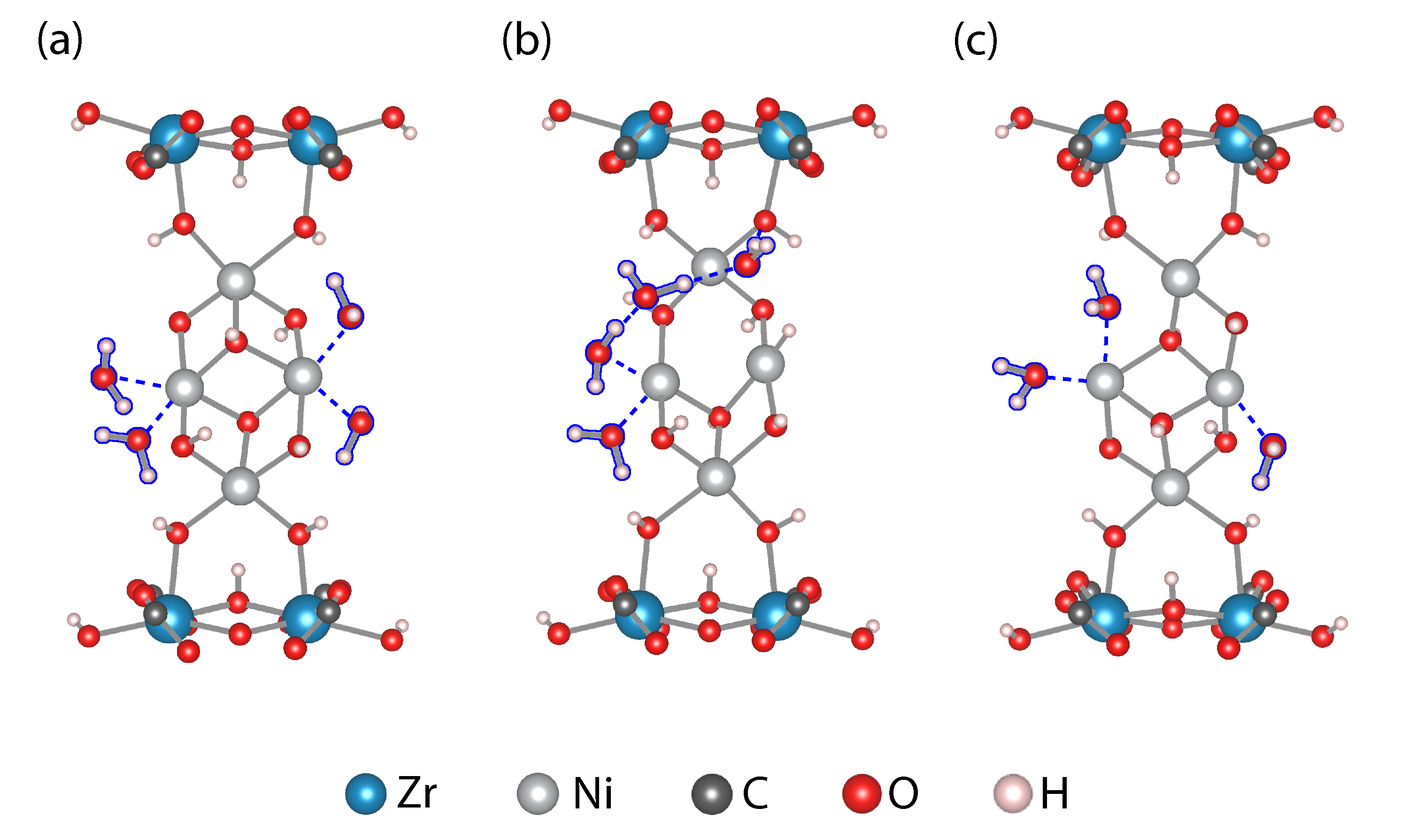
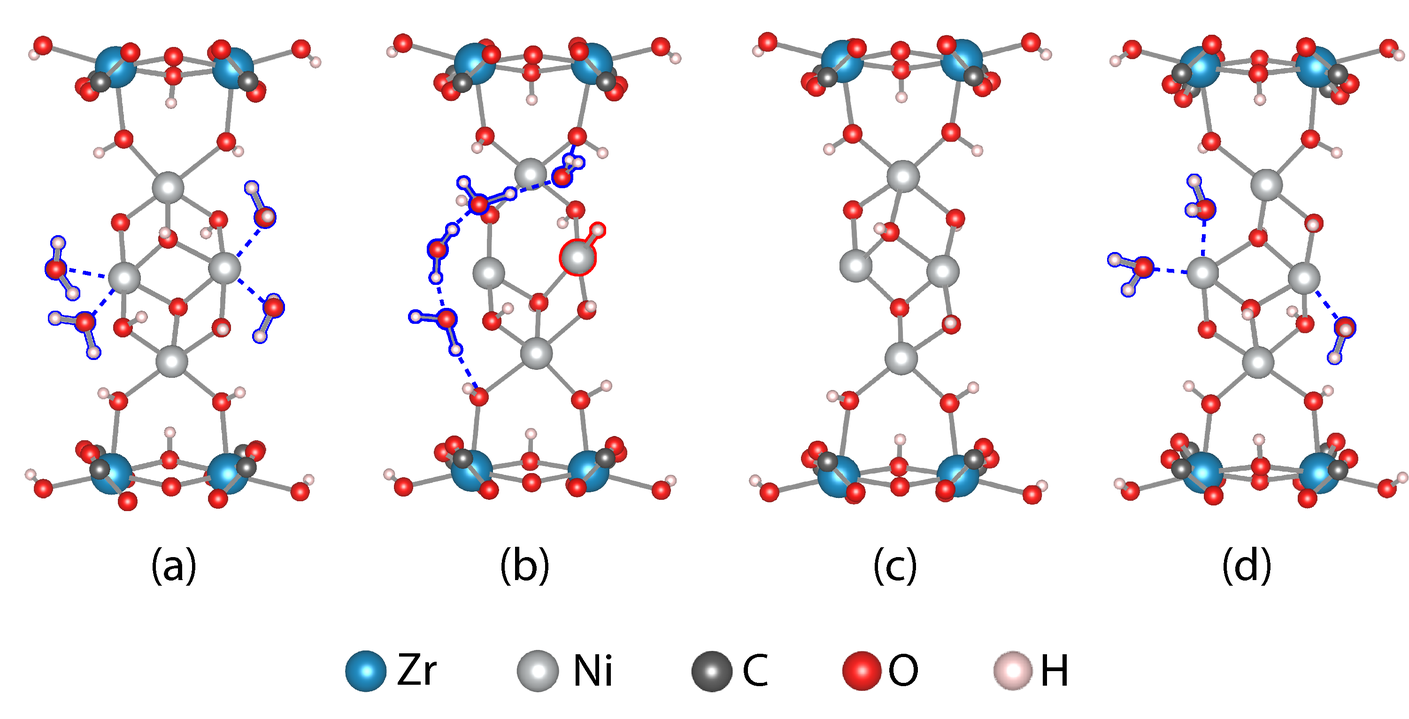
Sending changes to GitHub for reference.

diff --git a/outline.tex b/outline.tex
@@ -155,13 +155,34 @@ Heterogeneous catalysts exhibit dynamic changes in composition and structure as 
 %% Introduction
 %%%%%%%%%%%%%%%%%%%%%%%%%%%%%%%%%%%%%%%%%%%%%%%%%%%%%%%%%%%%%%%%%%%%%
 
-Single-site heterogeneous catalysts (SSHCs) contain well-defined, atomically dispersed active sites that are anchored to solid supports,\cite{Hlatky2000, Kaiser2020, Wasson2019} such as metal-organic frameworks (MOFs),\cite{Zheng2019, AbdelMageed2019, Huang2019} covalent-organic frameworks (COFs),\cite{Zhong2019, Romero-Muniz2020} zeolites,\cite{Mao2016, Kistler2014} and metal\cite{Patel2019, Pei2017, Jiao2019} and metal oxide surfaces.\cite{Bo2019, Riley2018, Tang2019} The atomically dispersed atoms are often 3d transition metals,\cite{Manna2016, Beyzavi2015} with the solid support providing a means to improve metal utilization and maintain well-defined active site structures.\cite{Qiao2011, Cui2017, Yang2013} The metal atoms are anchored to the support either directly (metal-metal bonds) or by organic ligands (e.g., \ce{OH}-ligands), with the attachment dependent on the type of support. In some cases, the ligand environments may be similar to homogeneous catalysts.\cite{Rogge2017} Also similar to homogeneous catalysts, active site structures for SSHCs can be tuned by changing the ligand environment and metal atoms, which makes them tunable. SSHCs are hence appealing for carrying out challenging chemistries.\cite{Thomas2005, Liu2019, Desai2018}
+Single-site heterogeneous catalysts (SSHCs) contain well-defined, atomically dispersed active sites that are anchored to solid supports,\cite{Hlatky2000, Kaiser2020, Wasson2019} such as metal-organic frameworks (MOFs),\cite{Zheng2019, AbdelMageed2019, Huang2019} covalent-organic frameworks (COFs),\cite{Zhong2019, Romero-Muniz2020} zeolites,\cite{Mao2016, Kistler2014} and metal\cite{Patel2019, Pei2017, Jiao2019} and metal oxide surfaces.\cite{Bo2019, Riley2018, Tang2019} The atomically dispersed atoms are often 3d transition metals,\cite{Manna2016, Beyzavi2015} with the solid support providing a means to improve metal utilization and maintain well-defined active site structures.\cite{Qiao2011, Cui2017, Yang2013} The metal atoms are anchored to the support either directly (metal-metal bonds) or by organic ligands (e.g., \ce{OH}-ligands), with the attachment dependent on the type of support. In some cases, the ligand environments may be similar to homogeneous catalysts.\cite{Rogge2017} Also similar to homogeneous catalysts, active site structures for SSHCs can be tuned by changing the ligand environment and metal atoms. SSHCs are hence appealing for carrying out challenging chemistries.\cite{Thomas2005, Liu2019, Desai2018}
 
-%Designing SSHCs requires developing structure-function relationships between catalyst composition and structure with performance. The structures of SSHCs are strongly influenced by operating conditions (e.g., temperature and pressure).\cite{Li2018, DeRita2019} For example, operating conditions modulate the coordinate ligand and structural environments of metal atom centers,\cite{Redfern2018, Kim2015} such as the change in \ce{Pt-O} coordination of single \ce{Pt} atoms supported on \ce{CeO2} (100) due to surface oxygen mobility as a function of temperature.\cite{Daelman2019} Predicting how operating conditions alter any SSHC is non-trivial due to the uniqueness of catalyst, and depends on both the metal and the support. Given catalyst structure drives catalyst function,\cite{DeRita2019} designing SSHCs requires an understanding about the catalyst structure and composition under operating conditions.\cite{Tang2019} This remains an ongoing challenge, with rational catalyst design inhibited by difficulties in determining the precise active site.
+For SSHCs, the structural environments (i.e, the coordinate ligands) of the metal atom centers drive the catalysis.\cite{DeRita2019} However, predicting the ligand environment of any SSHC is non-trivial due to the uniqueness of active site,\cite{Daelman2019, Tang2019} and is further complicated by structural changes induced by operating conditions.\cite{Li2018, Kim2015} Understanding the SSHC ligand environment is imperative to understand the catalytic mechanisms that occur. Difficulties in determining the precise active site for SSHCs remain an ongoing challenge, with a lack of structural information about the active site preventing detailed structures-function relationships between catalyst structure and performance.
 
-Developing structure-function relationships between catalyst structure and performance is vital for rational catalyst design. For SSHCs, the structural environments (i.e, the coordinate ligands) of the metal atom centers influence the catalysis.\cite{DeRita2019} However, predicting the ligand environment of any SSHC is non-trivial due to the uniqueness of active site,\cite{Daelman2019} and is further complicated by structural changes induced by operating conditions.\cite{Li2018} Understanding the SSHC ligand environment at relevant operating condition is imperative to rationalize the catalytic mechanisms. This remains an ongoing challenge, with rational catalyst design inhibited by difficulties in determining the precise active site.
+%In this work, we seek to learn the composition and structure of a single-site \ce{Ni} catalyst under conditions relevant to catalytic hydrogenation, because of their importance in a variety of reactions, including the Shell higher oligomers process (SHOP)\cite{1988Reuben} and the steam reforming of methane using the Catalytic Rich Gas (CRG) catalyst.\cite{Ross1973} Specifically, we investigate a \ce{Ni} cluster supported on the MOF NU-1000, herein denoted Ni-NU-1000. MOFs are porous crystals comprised of metal oxide/hydroxide nodes connected by organic ``linker" molecules.\cite{Li1999} NU-1000 (Figure~\ref{fig:Ni-MOF-model}a) is comprised of \ce{Zr6(\mu_{3}-O)4(\mu_{3}-OH)4(H2O)4(OH)4} nodes connected with tetratopic 1,3,6,8-tetrakis (p-benzoate) pyrene (TBAPy) linkers. The \ce{Ni} ions are known to anchor to the NU-1000 nodes via the accessible \ce{-OH}/\ce{-OH2} ligands on the \ce{Zr6} nodes, with Atomic Layer Deposition in MOFs (AIM) depositing the \ce{Ni} atoms.\cite{Mondloch2013} Initially, the structure was thought to consist of a single divalent \ce{Ni} ion coordinated zero to three \ce{H2O} ligands, depending on the operating conditions.\cite{Li2016sintering} However, difference envelope density (DED) analysis of powder diffraction data and electron microscopy later revealed that the catalyst is actually comprised of four \ce{Ni} ions per node.\cite{PlateroPrats2017} Computational studies by \citeauthor{Ye2017} then suggested that the catalyst is a four \ce{Ni} ion cluster containing hydroxo (\ce{OH}) ligands attached to adjacent nodes within NU-1000.\cite{Ye2017} For Ni-NU-1000, Ni hydrides (\ce{Ni-H}) have always been considered a key intermediate for both ethylene hydrogenation\cite{Shabbir2020, Li2016sintering} and ethylene dimerization.\cite{Ye2017} For example, in the work by \citeauthor{Ye2017}, the catalyst was assumed to lose all coordinated \ce{H2O} ligands with an \ce{OH}-ligand being replaced by an ethyl (Et) ligand when activated with \ce{Et2AlCl} (as seen in the \hl{Supporting Information}).\cite{Ye2017} The reaction mechanism then proceeds to contain a \ce{Ni-H}. However, the precise ligand environment remains to be resolved. Addressing questions related to the active site structure are important in improving these Ni-NU-1000 catalysts, and the results will be useful for understanding ligand environments in other 3d transition metal ion catalysts as well. 
 
-In this work, we seek to learn the composition and structure of a single-site \ce{Ni} catalyst under conditions relevant to catalytic hydrogenation, because of their importance in a variety of reactions, including the Shell higher oligomers process (SHOP)\cite{1988Reuben} and the steam reforming of methane using the Catalytic Rich Gas (CRG) catalyst.\cite{Ross1973} Specifically, we investigate a \ce{Ni} cluster supported on the MOF NU-1000, herein denoted Ni-NU-1000. MOFs are porous crystals comprised of metal oxide/hydroxide nodes connected by organic ``linker" molecules.\cite{Li1999} NU-1000 (Figure~\ref{fig:Ni-MOF-model}a) is comprised of \ce{Zr6(\mu_{3}-O)4(\mu_{3}-OH)4(H2O)4(OH)4} nodes connected with tetratopic 1,3,6,8-tetrakis (p-benzoate) pyrene (TBAPy) linkers. The Ni ions are known to anchor to the NU-1000 nodes via the accessible \ce{-OH}/\ce{-OH2} ligands on the \ce{Zr6} nodes, with Atomic Layer Deposition in MOFs (AIM) depositing the \ce{Ni} atoms.\cite{Mondloch2013} Initially, the structure was thought to consist of a single divalent \ce{Ni} ion coordinated zero to three \ce{H2O} ligands, depending on the operating conditions.\cite{Li2016sintering} However, difference envelope density (DED) analysis of powder diffraction data and electron microscopy later revealed that the catalyst is actually comprised of four \ce{Ni} ions per node.\cite{PlateroPrats2017} Computational studies by \citeauthor{Ye2017} then suggested that the catalyst is a four \ce{Ni} ion cluster containing hydroxo (\ce{OH}) ligands attached to adjacent nodes within NU-1000.\cite{Ye2017} For Ni-NU-1000, Ni hydrides (\ce{Ni-H}) have always been considered a key intermediate for both ethylene hydrogenation\cite{Shabbir2020, Li2016sintering} and ethylene dimerization.\cite{Ye2017} For example, in the work by \citeauthor{Ye2017}, the catalyst was assumed to lose all coordinated \ce{H2O} ligands with an \ce{OH}-ligand being replaced by an ethyl (Et) ligand when activated with \ce{Et2AlCl} (as seen in the \hl{Supporting Information}).\cite{Ye2017} The reaction mechanism then proceeds to contain a \ce{Ni-H}. However, the precise ligand environment remains to be resolved. Addressing questions related to the active site structure are important in improving these Ni-NU-1000 catalysts, and the results will be useful for understanding ligand environments in other 3d transition metal ion catalysts as well. 
+In this work, we seek to learn the composition and structure of a \ce{Ni} SSHC under conditions relevant to catalytic hydrogenation. \ce{Ni}-based catalysts are important in a variety of reactions, including ethene oligomerization using the Shell higher oligomers process (SHOP)\cite{1988Reuben} and the steam reforming of methane using the Catalytic Rich Gas (CRG) catalyst.\cite{Ross1973} Specifically, we investigate a \ce{Ni} cluster supported on the MOF NU-1000, herein denoted Ni-NU-1000. MOFs are porous crystals that consist of metal cation nodes connected by organic ``linker" molecules.\cite{Li1999} NU-1000 (Figure~\ref{fig:Ni-MOF-model}a) is comprised of \ce{Zr6(\mu_{3}-O)4(\mu_{3}-OH)4(H2O)4(OH)4} nodes interconnected with tetratopic 1,3,6,8-tetrakis (p-benzoate) pyrene (TBAPy) linkers. The \ce{Ni} ions are known to anchor to the NU-1000 nodes via the accessible \ce{-OH}/\ce{-OH2} ligands on the \ce{Zr6} nodes, with Atomic Layer Deposition in MOFs (AIM) depositing the \ce{Ni} atoms.\cite{Mondloch2013} Initially, the structure was thought to consist of a single divalent \ce{Ni} ion coordinated with zero to three \ce{H2O} ligands, depending on the operating conditions.\cite{Li2016sintering} However, difference envelope density (DED) analysis of powder diffraction data and electron microscopy later revealed that the catalyst is four \ce{Ni} ion cluster (\ce{Ni4OxHy})and contains a combination of hydroxo (\ce{OH}) and water \ce{H2O} ligands.\cite{PlateroPrats2017} Additional computational studies by \citeauthor{Ye2017} then suggested the four \ce{Ni} ion cluster is attached to adjacent nodes within Ni-NU-1000.\cite{Ye2017} Key questions remain about the precise ligand environment of the \ce{Ni} ions. Prior literature suggests that the 
+
+% combine the two sentences below.. soft the term general consensus here.. Prior literature suggests that the 
+The general consensus is that in the synthesized Ni-NU-1000 the \ce{Ni} ions are interconnected by \ce{OH}-ligands and also contains coordinated \ce{H2O} ligands; however, other ligands are possible including \ce{H2O}, \ce{O}, and \ce{H} ligands. Additionally, the arrangement of these ligands within Ni-NU-1000 isn't fully established either. 
+
+However, the precise ligand environment isn't know.. 
+
+% elaborate more intentionally about the Ni-H structure...metal hydride active site is present. 
+Further complexities exist when considering differences between the synthesized and activated samples, which the formation of the key \ce{Ni} hydride (\ce{Ni-H}) intermediate for catalytic ethylene hydrogenation\cite{Shabbir2020, Li2016sintering} and dimerization.\cite{Ye2017} 
+
+% There is evidence that suggests the hydrogenation and dimerization.. be concise.. enough information. 
+
+Several modeling studies have used active site model, seen good agreement with the metal hydride active site model compared to other models. 
+
+% Think about it as someone not being in ICDC who hasn't read the papers, but is an expert in SSHCs. 
+
+% Hydride is suggests as being the active site for these reactions. Can also reference Ben's paper on the formation of the hydride being relevant in these reactions. 
+
+Addressing questions related to the active site structure are important in improving these Ni-NU-1000 catalysts, and the results will be useful for understanding ligand environments in other 3d transition metal ion catalysts as well.   
+
+% For Ni-NU-1000, \ce{Ni} hydrides (\ce{Ni-H}) have always been considered a key intermediate for both ethylene hydrogenation\cite{Shabbir2020, Li2016sintering} and ethylene dimerization.\cite{Ye2017} For example, in the work by \citeauthor{Ye2017}, the catalyst was assumed to lose all coordinated \ce{H2O} ligands with an \ce{OH}-ligand being replaced by an ethyl (Et) ligand when activated with \ce{Et2AlCl} (as seen in the \hl{Supporting Information}).\cite{Ye2017} The reaction mechanism then proceeds to contain a \ce{Ni-H}. 
+
 
 Along these lines, in this work, we explore the ligand environment of a four ion \ce{Ni} cluster under conditions relevant to catalytic hydrogenation (specifically conditions with exposure to \ce{H2} gas during the activation step). Prior experimental work on Ni-NU-1000 enables comparisons between computational and experimental characterization. We combine differential pair distribution function (d-PDF) analysis, density functional theory (DFT), and \textit{ab initio} thermodynamic modeling to learn the ligand environment of Ni-NU-1000. We find that highly coordinated \ce{Ni} ions (\ce{Ni-O} coordination $\sim$5) that contain an asymmetric arrangement of \ce{OH}, \ce{H2O}, and \ce{O} ligands show the best agreement with experimental results. Structures that can achieve such high \ce{Ni} coordination exhibit large chemical potentials of \ce{H2O} even under reducing conditions, suggesting that NU-1000 is able to store \ce{H2O} under these conditions. Notably, we only identify one structure featuring a \ce{Ni} hydride in thermodynamic modeling, despite the the consensus that metal (M) hydrides are part of the active site in M-NU-1000 catalysts. Our results provide insights into the local coordination of the \ce{Ni} metal cluster that will be useful in hypothesizing and modeling catalytic mechanisms on such catalysts. 
 
@@ -169,7 +190,7 @@ Along these lines, in this work, we explore the ligand environment of a four ion
     \centering
     \includegraphics[width=3.0in]{zi-images/00-General-Graphics/2022-figure-MOF-schematic.png}
     \caption{
-    The structure of NU-1000 shown along the (a) c-axis and the (b) a-axis with the location of the \ce{Ni} metal cluster highlighted by the gray oval. 
+    The structure of NU-1000 shown along the (a) c-axis and the (b) a-axis with the location of the \ce{Ni} metal cluster highlighted by the gray oval. The metal cluster is located within the 8~{\AA} pore of Ni-NU-1000. The diameters of the hexagonal (31~{\AA}) and triangular (10~{\AA}) channels are also indicated.
     }
     \label{fig:Ni-MOF-model}
 \end{figure}
@@ -187,13 +208,13 @@ Differential pair distribution function (d-PDF) analysis is performed to reveal 
 
 \subsubsection{Catalyst Structure Models}
 
-NU-1000 (P6/mmm space group) comprises small 8~\AA\ pores and large 31~\AA\ pores (Figure \ref{fig:Ni-MOF-model}). DFT-optimized unit cell parameters are $a=b=40.611$ {\AA}, $c=15.990$ {\AA}, $\alpha=\beta=\ang{90}$, and $\gamma=\ang{60}$. Simulated structures contain one \ce{Ni} cluster per unit cell. Based on the current knowledge about Ni-NU-1000 catalysts,\cite{PlateroPrats2017} these clusters comprise four \ce{Ni} ions and span the small pores of NU-1000, connecting two adjacent nodes (Figure~\ref{fig:Ni-MOF-model}b). (Structures comprising fewer than four \ce{Ni} ions were also evaluated, but gave poor agreement with the experimental d-PDF; see \hl{Supporting Information Section XXX}.) Clusters bind to the nodes by replacing two protons (one on each node).\cite{Ye2017} To provide molecular-level insight into the types of ligand environments that could lead to the experimentally observed d-PDFs, we consider \hl{854} different structures comprising a variety of ligand environments, including hydroxyl (\ce{OH}), water (\ce{H2O}), hydride (\ce{H}), and oxygen (\ce{O}), giving stoichiometries of \ce{Ni_4O_xH_y} for all clusters considered. Three example structures are shown in Figure~\ref{fig:Ni-MOF-structures}. \textbf{\color{red}The full library of structures considered in this work can be accessed on our GitHub page.} 
+NU-1000 (P6/mmm space group) features small 8~{\AA} pores with uniform hexagonal (31~{\AA}) and triangular (10~{\AA}) channels (Figure \ref{fig:Ni-MOF-model}). DFT-optimized unit cell parameters are $a=b=40.611$ {\AA}, $c=15.990$ {\AA}, $\alpha=\beta=\ang{90}$, and $\gamma=\ang{60}$. Simulated structures contain one \ce{Ni} cluster per unit cell. Based on the current knowledge about Ni-NU-1000 catalysts,\cite{PlateroPrats2017} these clusters comprise four \ce{Ni} ions and span the small pores of NU-1000, connecting two adjacent nodes (Figure~\ref{fig:Ni-MOF-model}b). (Structures comprising fewer than four \ce{Ni} ions were also evaluated, but gave poor agreement with the experimental d-PDF; see \hl{Supporting Information Section XXX}.) Clusters bind to the nodes by replacing two protons (one on each node).\cite{Ye2017} To provide molecular-level insight into the types of ligand environments that could lead to the experimentally observed d-PDFs, we consider \hl{854} different structures comprising a variety of ligand environments, including hydroxyl (\ce{OH}), water (\ce{H2O}), hydride (\ce{H}), and oxygen (\ce{O}), giving stoichiometries of \ce{Ni_4O_xH_y} for all clusters considered. Four example structures are shown in Figure~\ref{fig:Ni-MOF-structures}. \textbf{\color{red}The full library of structures considered in this work can be accessed on our GitHub page.} 
 
 \begin{figure}
     \centering
     \includegraphics[width=5.0in]{zi-images/00-General-Graphics/2022-figure-clusters-3xstructures.png}
     \caption{
-    Some of the \ce{Ni_4O_xH_y} clusters evaluated in this work. (a) \ce{Ni4(OH)6.4H2O} (green), (b) \ce{Ni4(OH)5(H).4H2O} (blue), (c) \ce{Ni4(OH)4(O).3H2O} (maroon). Colors in parentheses are the same as for Figures~\ref{fig:phase_diagram_Ni} and \ref{fig:Ni-structure-diagram}. The NU-1000 structure is excluded from the pictures for clarity, except for the \ce{Zr} ions where the clusters are attached. The atom color key is indicated in the figure. \ce{H2O} molecules and ligands are outlined in blue.  
+    Some of the \ce{Ni_4O_xH_y} clusters evaluated in this work. (a) \ce{Ni4(OH)6.4H2O} (green), (b) \ce{Ni4(OH)5(H).4H2O} (blue), (c) \ce{Ni4(OH)4(O)} (yellow), and (d) \ce{Ni4(OH)4(O).3H2O} (maroon). Colors in parentheses are the same as for Figures~\ref{fig:phase_diagram_Ni} and \ref{fig:Ni-structure-diagram}. The NU-1000 structure is excluded from the pictures for clarity, except for the \ce{Zr} ions where the clusters are attached. The atom color key is indicated in the figure. \ce{H2O} molecules and ligands are outlined in blue, and \ce{Ni-H} ligands are outlined in red.
     }
     \label{fig:Ni-MOF-structures}
 \end{figure}
@@ -212,7 +233,7 @@ NU-1000 (P6/mmm space group) comprises small 8~\AA\ pores and large 31~\AA\ pore
 where $F^{(2)}$ is the the second Legendre transform of the Helmholtz free energy (i.e., of $N_{\ce{H}}$ and $N_{\ce{O}}$ to $\mu_{\ce{H}}$ and $\mu_{\ce{O}}$),\cite{Alberty1997} $V$ is volume, $T$ is temperature, $\mu$ is chemical potential, and $N$ is number, i.e., of \ce{O} and \ce{H} atoms within the cluster. $\mu_{\ce{H}} = \frac{1}{2} \mu_{\ce{H}_2}$, and $\mu_{\text{O}} = \mu_{\ce{H2O}} - 2\mu_{\ce{H}}$. $F = E^\text{elec} + E^\text{ZP} + F^\text{vib}$, where $E^\text{elec}$ is the electronic energy calculated with DFT, $E^\text{ZP}$ is the zero point vibrational energy, and $F^\text{vib}$ is the temperature dependent vibrational free energy. The $\Delta$'s in Eq.~\ref{eq:free-energy-trans} indicate quantities taken relative to a reference structure; the reference structure used in this work is shown in Figure~\ref{fig:Ni-MOF-structures}a. This structure comprises \ce{OH} and \ce{H2O} ligands (outlined in blue in Figure~\ref{fig:Ni-MOF-structures}) and is highly symmetric.
 
 \subsubsection{Density Functional Theory Calculations}
-Electronic energies are calculated using the CP2K software package\cite{Hutter2014} using the PBE exchange and correlation functional\cite{Perdew1996}, damped D3 dispersion corrections,\cite{Grimme2010} the DZVP-MOLOPT basis set,\cite{VandeVondele2007} and Goedecker pseudopotentials.\cite{Goedecker1996} Plane waves are simulated up to 360 Ry. As a single divalent \ce{Ni} ion can adopt singlet or triplet spin states, we evaluate singlet, triplet, quintet, septet, and nonet states for the \ce{Ni4} clusters, following prior work.\cite{Shabbir2020, Ye2017, Bernales2016} The Unrestricted Kohn-Sham (UKS) method is employed given the open shell nature of the system. Spin states exhibiting spin contamination are not considered in \textit{ab initio} thermodynamic analysis. Details about how spin contamination is determined and the criteria used to keep or discard structures is provided in Supporting Information Section \hl{XXX}. Electronic energies are obtained from geometry relaxations where all atoms in the periodic unit cell are allowed to relax. $E^\text{ZP}$ and $F^\text{vib}$ are calculated from the calculated vibrational modes. Details about how the vibrational modes are calculated are provided in \hl{Supporting Information}. Vibrational modes are only calculated for structures within 100 kJ/mol of the lowest electronic-energy cluster at each unique composition to decrease computational expense. Details about how $E_{\text{H}_2}$ and $E_{\text{H}_2\text{O}}$ are calculated and sample CP2K input files for all types of DFT calculations carried out in this work are provided in Supporting Information. 
+Electronic energies are calculated using the CP2K software package\cite{Hutter2014} using the PBE exchange and correlation functional\cite{Perdew1996}, damped D3 dispersion corrections,\cite{Grimme2010} the DZVP-MOLOPT basis set,\cite{VandeVondele2007} and Goedecker pseudopotentials.\cite{Goedecker1996} Plane waves are simulated up to 360 Ry. As a single divalent \ce{Ni} ion can adopt singlet or triplet spin states, we evaluate singlet, triplet, quintet, septet, and nonet states for the \ce{Ni4} clusters, following prior work.\cite{Shabbir2020, Ye2017, Bernales2016} The Unrestricted Kohn-Sham (UKS) method is employed given the open shell nature of the system. Spin states exhibiting spin contamination are not considered in \textit{ab initio} thermodynamic analysis. Details about how spin contamination is determined and the criteria used to keep or discard structures is provided in Supporting Information Section \hl{XXX}. Electronic energies are obtained from geometry relaxations where all atoms in the periodic unit cell are allowed to relax. $E^\text{ZP}$ and $F^\text{vib}$ are calculated from the calculated vibrational modes. Details about how the vibrational modes, $E^\text{ZP}$, and $F^\text{vib}$ are calculated are provided in \hl{Supporting Information}. Vibrational modes are only calculated for structures within 100 kJ/mol of the lowest electronic-energy cluster at each unique composition to decrease computational expense. Details about how $E_{\text{H}_2}$ and $E_{\text{H}_2\text{O}}$ are calculated and sample CP2K input files for all types of DFT calculations carried out in this work are provided in Supporting Information. 
 
 \section{Results and Discussion}
 %%%%%%%%%%%%%%%%%%%%%%%%%%%%%%%%%%%%%%%%%%%%%%%%%%%%%%%%%%%%%%%%%%%%%
@@ -253,13 +274,13 @@ Figure~\ref{fig:phase_diagram_Ni} plots a phase diagram constructed using \texti
     \label{fig:Ni-structure-diagram}
 \end{figure}
 
-To compare with experiment, d-PDFs for all structures on the phase diagram with \ce{Ni-O} coordination numbers $\ge$ 4 are shown in Figure~\ref{fig:dPDFs-graphic}b. We seek those structures that give good agreement with the \ce{Ni-O} and \ce{Ni{\Compactcdots}Ni} peaks seen in the experimental d-PDF, since these peaks represent key structural features of the cluster. \ce{Ni-O} peaks in general agree well with experiment, except for \ce{Ni4(OH)5(H).4H2O} (blue), which exhibits asymmetric split peaks instead of a single peak. From Figure~\ref{fig:Ni-structure-diagram}, this asymmetry is likely caused by an asymmetric ligand environment (Figure~\ref{fig:Ni-MOF-structures}b). Specifically, in addition to \ce{OH} and \ce{H2O} ligands, the \ce{Ni4(OH)5(H).4H2O} (blue) structure comprises a Ni hydride (\ce{H} ligand) as well as a bridge of \ce{H2O} molecules that connect one \ce{Ni} ion with a \ce{OH} ligand on the opposite side of the cluster. That asymmetry in the \ce{Ni-O} peak is not observed experimentally indicates that the ligand environments on the different \ce{Ni} ions in the synthesized structure are more similar than those in structure \ce{Ni4(OH)5(H).4H2O} (blue).  
+To compare with experiment, d-PDFs for all structures on the phase diagram with \ce{Ni-O} coordination numbers $\ge$ 4 are shown in Figure~\ref{fig:dPDFs-graphic}b. We seek structures that give good agreement with the \ce{Ni-O} and \ce{Ni{\Compactcdots}Ni} peaks seen in the experimental d-PDF, as we find these peaks may be related to structural phenomena that, at present, aren't fully incorporated into any molecular models. \ce{Ni-O} peaks in general agree well with experiment, except for \ce{Ni4(OH)5(H).4H2O} (blue), which exhibits asymmetric split peaks instead of a single peak. From Figure~\ref{fig:Ni-structure-diagram}, this asymmetry is likely caused by an asymmetric ligand environment (Figure~\ref{fig:Ni-MOF-structures}b). Specifically, in addition to \ce{OH} and \ce{H2O} ligands, the \ce{Ni4(OH)5(H).4H2O} (blue) structure comprises a Ni hydride (\ce{H} ligand) as well as a bridge of \ce{H2O} molecules that connect one \ce{Ni} ion with a \ce{OH} ligand on the opposite side of the cluster. That asymmetry in the \ce{Ni-O} peak is not observed experimentally indicates that the ligand environments on the different \ce{Ni} ions in the synthesized structure are more similar than those in structure \ce{Ni4(OH)5(H).4H2O} (blue).  
 
-There is less agreement between simulations and experiments for the \ce{Ni{\Compactcdots}Ni} peaks in the d-PDFs in Figure~\ref{fig:dPDFs-graphic}. In the experimental d-PDF, these peaks are split, suggesting that there is at least some asymmetry in the cluster; however, most of the simulated structures exhibit a single \ce{Ni{\Compactcdots}Ni} peak. The two exceptions are \ce{Ni4(OH)5(H).4H2O} (blue) and \ce{Ni4(OH)4(O)} (yellow). While \ce{Ni4(OH)5(H).4H2O} (blue) exhibits a highly asymmetric ligand environment including a \ce{H2O} molecule chain and a \ce{Ni} hydride, \ce{Ni4(OH)4(O)} (yellow) comprises mainly \ce{OH} ligands and one \ce{O} ligand (but no \ce{H2O} or \ce{H} ligands). Taken together, these comparisons suggest that the synthesized catalyst exhibits a mix of \ce{OH}, \ce{H2O}, and \ce{O} ligands, similar to \ce{Ni4(OH)4(O)} (yellow).
+There is less agreement between simulations and experiments for the \ce{Ni{\Compactcdots}Ni} peaks in the d-PDFs in Figure~\ref{fig:dPDFs-graphic}. In the experimental d-PDF, these peaks are split, suggesting that there is at least some asymmetry in the cluster; however, most of the simulated structures exhibit a single \ce{Ni{\Compactcdots}Ni} peak. The two exceptions are \ce{Ni4(OH)5(H).4H2O} (blue) and \ce{Ni4(OH)4(O)} (yellow), which are shown in Figure~\ref{fig:Ni-MOF-structures}b and c respectively. While \ce{Ni4(OH)5(H).4H2O} (blue) exhibits a highly asymmetric ligand environment including a \ce{H2O} molecule chain and a \ce{Ni} hydride, \ce{Ni4(OH)4(O)} (yellow) comprises mainly \ce{OH} ligands and one \ce{O} ligand (but no \ce{H2O} or \ce{H} ligands). Taken together, these comparisons suggest that the synthesized catalyst exhibits a mix of \ce{OH}, \ce{H2O}, and \ce{O} ligands, similar to \ce{Ni4(OH)4(O)} (yellow).
 
-In order to provide further molecular-level insight into the ligand environment of Ni-NU-1000, we generated d-PDFs for the remaining structures in the database (i.e., for the remaining 844 structures not included in Figure~\ref{fig:phase_diagram_Ni}). The structure that gives the best agreement with experiment is \ce{Ni4(OH)4)(O).3H2O} (maroon), which is depicted in Figures~\ref{fig:Ni-MOF-structures}c and \ref{fig:Ni-structure-diagram}b. The d-PDF for this structure is given in Figure~\ref{fig:dPDFs-graphic}c. The \ce{Ni4(OH)4)(O).3H2O} (maroon) structure exhibits a single \ce{Ni-O} peak that is somewhat broader than the for the synthesized structure. It also exhibits split \ce{Ni{\Compactcdots}Ni} peaks like the synthesized structure, although their intensities are somewhat different. The \ce{Ni4(OH)4)(O).3H2O} (maroon) structure exhibits a \ce{Ni-O} coordination number of 5.0 and a mixture of \ce{OH}, \ce{H2O}, and \ce{O} ligands. The ligand environment is asymmetric, leading to split \ce{Ni{\Compactcdots}Ni} peaks at distances in agreement with those observed experimentally. Though this structure is not a thermodynamic minimum according to \textit{ab initio} thermodynamic analysis, we find it is within \hl{XXX}. 
+In order to provide further molecular-level insight into the ligand environment of Ni-NU-1000, we generated d-PDFs for the remaining structures in the database (i.e., for the remaining 844 structures not included in Figure~\ref{fig:phase_diagram_Ni}). The structure that gives the best agreement with experiment is \ce{Ni4(OH)4)(O).3H2O} (maroon), which is depicted in Figures~\ref{fig:Ni-MOF-structures}d and \ref{fig:Ni-structure-diagram}b. The d-PDF for this structure is given in Figure~\ref{fig:dPDFs-graphic}c. The \ce{Ni4(OH)4)(O).3H2O} (maroon) structure exhibits a single \ce{Ni-O} peak that is somewhat broader than the for the synthesized structure. It also exhibits split \ce{Ni{\Compactcdots}Ni} peaks like the synthesized structure, although their intensities are somewhat different. The \ce{Ni4(OH)4)(O).3H2O} (maroon) structure exhibits a \ce{Ni-O} coordination number of 5.0 and a mixture of \ce{OH}, \ce{H2O}, and \ce{O} ligands. The ligand environment is asymmetric, leading to split \ce{Ni{\Compactcdots}Ni} peaks at distances in agreement with those observed experimentally. Though this structure is not a thermodynamic minimum according to \textit{ab initio} thermodynamic analysis, we find it is within \hl{XXX}. 
 
-The last remaining feature of the d-PDFs not yet explored in this work is the \ce{Ni{\Compactcdots}Zr} peak. As for the \ce{Ni{\Compactcdots}Ni} peak, the synthesized structure exhibits split peaks whereas most of the simulated structures exhibit a single peak. The exceptions are the \ce{Ni4(OH)6.4H2O} (green) and \ce{Ni4(OH)4)(O).3H2O} (maroon) structures. While the \ce{Ni4(OH)4)(O).3H2O} (maroon) structure has an asymmetric ligand environment and hence split peaks for distances involving \ce{Ni} are expected, the \ce{Ni4(OH)6.4H2O} (green) structure is highly symmetric. Hence, the split \ce{Ni{\Compactcdots}Zr} peaks may not be caused entirely by asymmetry. Alternatively, the split peaks could be caused by unit cell asymmetry caused by node distortions, which has been previously observed for NU-1000 under operating conditions.\cite{PlateroPrats2016} Alternatively the split peaks may arise due to different ligand environments on the \ce{Zr} ions, which we have not explored computationally.
+The last remaining feature of the d-PDFs not yet explored in this work is the \ce{Ni{\Compactcdots}Zr} peak. As for the \ce{Ni{\Compactcdots}Ni} peak, the synthesized structure exhibits split peaks whereas most of the simulated structures exhibit a single peak. The exceptions are the \ce{Ni4(OH)6.4H2O} (green) and \ce{Ni4(OH)4)(O).3H2O} (maroon) structures. While the \ce{Ni4(OH)4)(O).3H2O} (maroon) structure has an asymmetric ligand environment and hence split peaks for distances involving \ce{Ni} are expected, the \ce{Ni4(OH)6.4H2O} (green) structure is highly symmetric. Hence, the split \ce{Ni{\Compactcdots}Zr} peaks may not be caused entirely by asymmetry. Alternatively, the split peaks could be caused by unit cell asymmetry caused by node distortions, which has been previously observed for NU-1000 during \ce{Ni} deposition using AIM and under conditions relevant for catalytic hydrogenation.\cite{PlateroPrats2016} Alternatively the split peaks may arise due to different ligand environments on the \ce{Zr} ions, which we have not explored computationally.
 
 Interestingly, only one structure comprising a \ce{Ni} hydride, i.e., structure \ce{Ni4(OH)5(H).4H2O} (blue), appears on the phase diagram. While this structure exhibits some characteristics in agreement with the synthesized structure, including split \ce{Ni{\Compactcdots}Ni} and \ce{Ni{\Compactcdots}Zr} peaks, it also exhibits split \ce{Ni-O} peaks, which is not observed experimentally, likely due to the significantly different ligand environment created by the hydride itself. These results suggest that the synthesized structure does not include a hydride. This could mean that the active site for hydrogenation catalysis is not a hydride, but rather a \ce{Ni} ion comprising \ce{OH} and/or \ce{H2O} ligands. Alternatively, it could mean that a small fraction (small enough so as to not dominate d-PDF results) of \ce{Ni} clusters within the NU-1000 structure comprise hydrides, and that it is these clusters that are active for hydrogenation catalysis. Further simulations and experiments are needed to clarify these details. 
 

diff --git a/zz_old_text/01-old_introduction.tex b/zz_old_text/01-old_introduction.tex
@@ -73,3 +73,8 @@ REMOVED FROM RACHEL'S MARCH EDIT OF THE MANUSCRIPT
 %  Similar ligated \ce{Ni} catalysts are now found in heterogeneous systems, such as zeolites\cite{2014Finiels} and MOFs.\cite{Ye2017, Bernales2016}
 
 % the \ce{Ni} metal complex ligand environment is sensitive to environmental conditions ($T$, $P_{\text{\ce{H2}}}$, and $P_{\text{\ce{H2O}}}$), and that
+
+
+%Designing SSHCs requires developing structure-function relationships between catalyst composition and structure with performance. The structures of SSHCs are strongly influenced by operating conditions (e.g., temperature and pressure).\cite{Li2018, DeRita2019} For example, operating conditions modulate the coordinate ligand and structural environments of metal atom centers,\cite{Redfern2018, Kim2015} such as the change in \ce{Pt-O} coordination of single \ce{Pt} atoms supported on \ce{CeO2} (100) due to surface oxygen mobility as a function of temperature.\cite{Daelman2019} Predicting how operating conditions alter any SSHC is non-trivial due to the uniqueness of catalyst, and depends on both the metal and the support. Given catalyst structure drives catalyst function,\cite{DeRita2019} designing SSHCs requires an understanding about the catalyst structure and composition under operating conditions.\cite{Tang2019} This remains an ongoing challenge, with rational catalyst design inhibited by difficulties in determining the precise active site.
+
+%In this work, we seek to learn the composition and structure of a single-site \ce{Ni} catalyst under conditions relevant to catalytic hydrogenation, because of their importance in a variety of reactions, including the Shell higher oligomers process (SHOP)\cite{1988Reuben} and the steam reforming of methane using the Catalytic Rich Gas (CRG) catalyst.\cite{Ross1973} Specifically, we investigate a \ce{Ni} cluster supported on the MOF NU-1000, herein denoted Ni-NU-1000. MOFs are porous crystals comprised of metal oxide/hydroxide nodes connected by organic ``linker" molecules.\cite{Li1999} NU-1000 (Figure~\ref{fig:Ni-MOF-model}a) is comprised of \ce{Zr6(\mu_{3}-O)4(\mu_{3}-OH)4(H2O)4(OH)4} nodes connected with tetratopic 1,3,6,8-tetrakis (p-benzoate) pyrene (TBAPy) linkers. The \ce{Ni} ions are known to anchor to the NU-1000 nodes via the accessible \ce{-OH}/\ce{-OH2} ligands on the \ce{Zr6} nodes, with Atomic Layer Deposition in MOFs (AIM) depositing the \ce{Ni} atoms.\cite{Mondloch2013} Initially, the structure was thought to consist of a single divalent \ce{Ni} ion coordinated zero to three \ce{H2O} ligands, depending on the operating conditions.\cite{Li2016sintering} However, difference envelope density (DED) analysis of powder diffraction data and electron microscopy later revealed that the catalyst is actually comprised of four \ce{Ni} ions per node.\cite{PlateroPrats2017} Computational studies by \citeauthor{Ye2017} then suggested that the catalyst is a four \ce{Ni} ion cluster containing hydroxo (\ce{OH}) ligands attached to adjacent nodes within NU-1000.\cite{Ye2017} For Ni-NU-1000, Ni hydrides (\ce{Ni-H}) have always been considered a key intermediate for both ethylene hydrogenation\cite{Shabbir2020, Li2016sintering} and ethylene dimerization.\cite{Ye2017} For example, in the work by \citeauthor{Ye2017}, the catalyst was assumed to lose all coordinated \ce{H2O} ligands with an \ce{OH}-ligand being replaced by an ethyl (Et) ligand when activated with \ce{Et2AlCl} (as seen in the \hl{Supporting Information}).\cite{Ye2017} The reaction mechanism then proceeds to contain a \ce{Ni-H}. However, the precise ligand environment remains to be resolved. Addressing questions related to the active site structure are important in improving these Ni-NU-1000 catalysts, and the results will be useful for understanding ligand environments in other 3d transition metal ion catalysts as well. 

diff --git a/support-information.tex b/support-information.tex
@@ -643,8 +643,9 @@ Below is a sample CP2K input file. If the singlet spin state was desired for all
         &END FORCE_EVAL
     \end{lstlisting}
 \end{center}
+
 \newpage
-\subsection{Frequency calculation freezing strategy}
+\subsection{Frequency Calculations}
 We fix the organic linker and inorganic nodes, thereby only calculating only the \ce{Ni} cluster vibrational contributions to the free energy ($F^\text{vib}$). We ensure that the same atoms are fixed across all frequency calculations in order to correctly compare ($F^\text{vib}$). When constructing the vibrational partition function, all frequencies less than 50 cm\textsuperscript{-1} are replaced with 50 cm\textsuperscript{-1} to correct for the breakdown in the harmonic oscillator approximation for low frequency vibrational modes.\cite{Ribeiro2011} The partitions functions are computed in the pMuTT\cite{LYM2019106864} Python package to compute $E^\text{ZP}$ and $F^\text{vib}$ for all structures. A sample input file for the CP2K frequency calculations is provided in the Supporting Information.
 
 %%%%%%%%%%%%%%%%%%%%%%%%%%%%%%%%%%%%%%%%%%%%%%%%%%%%%%%%%%%%%%%%%%%%%
